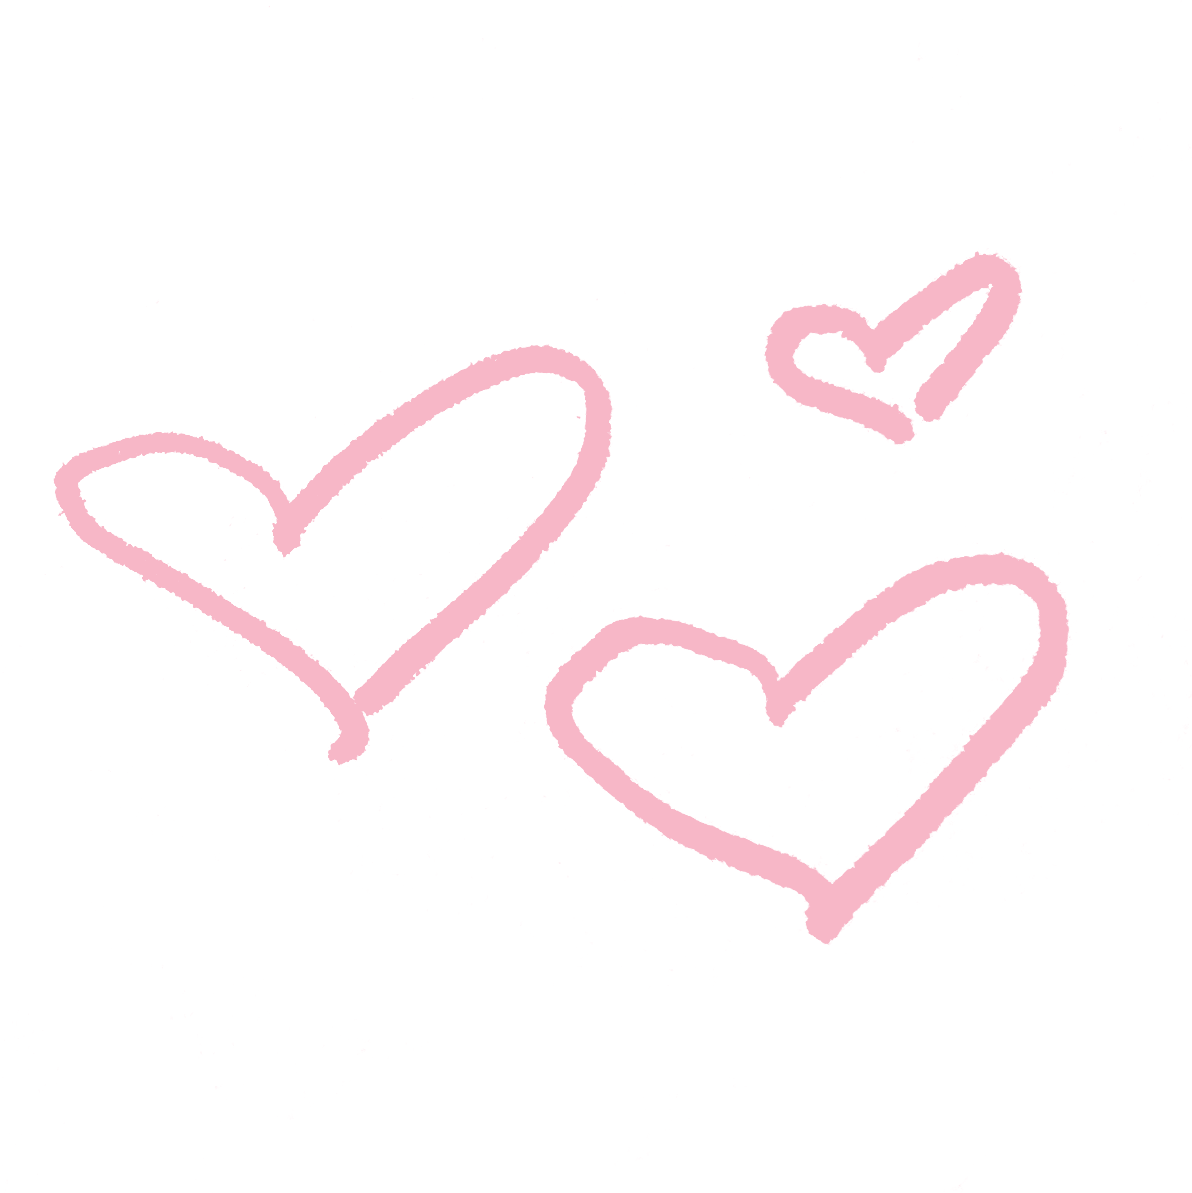
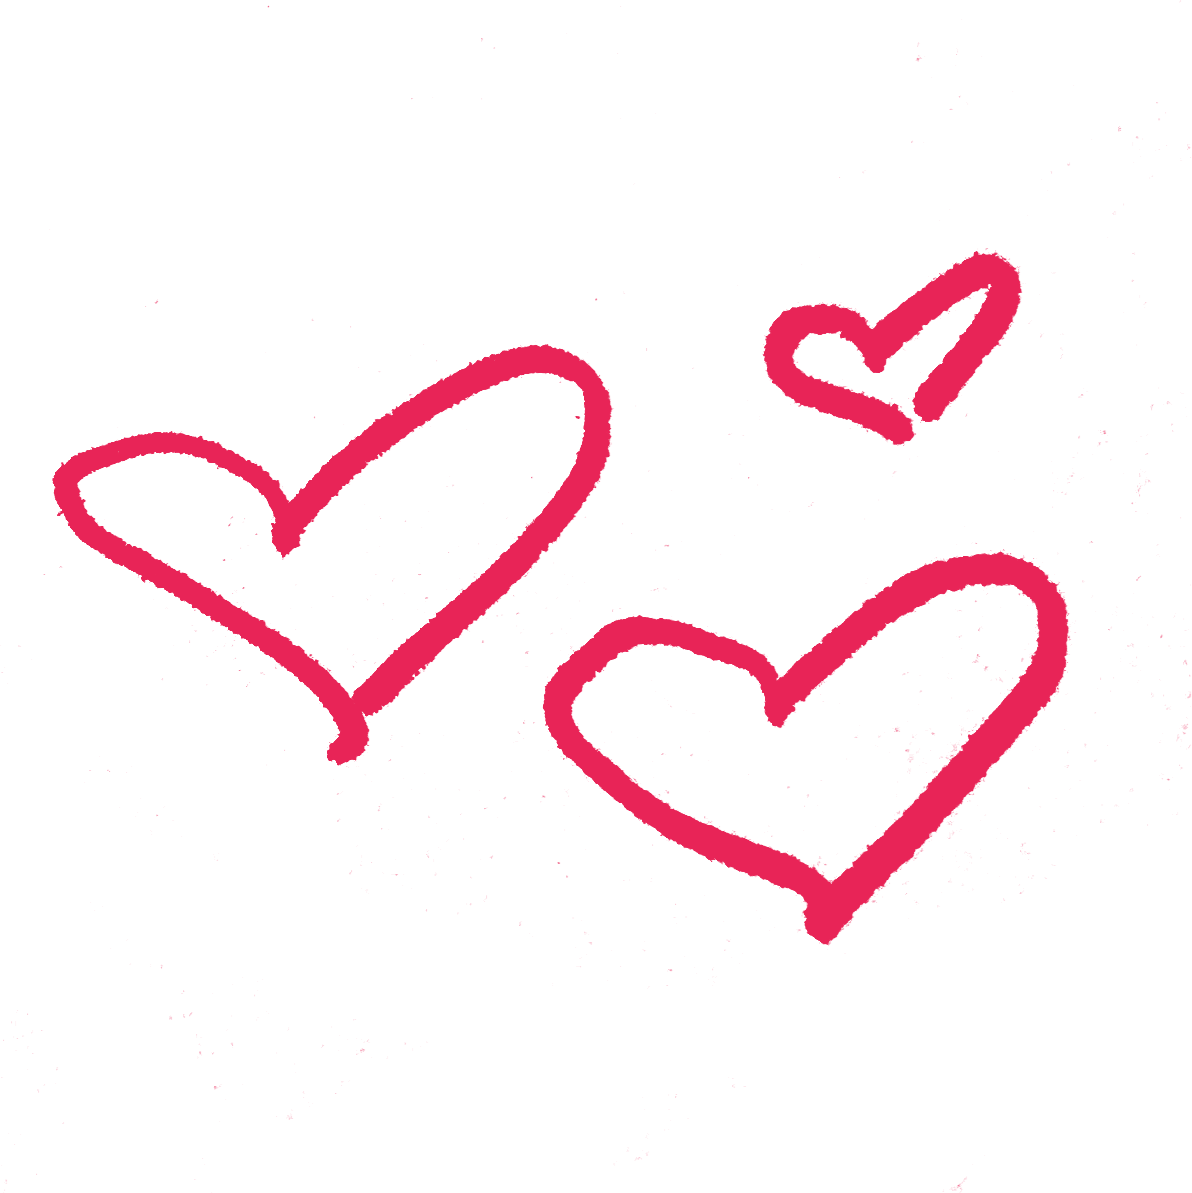
grid-template-areas for timeline, fixes

Changed region(s): [[0.031, 0.2791, 0.5277, 0.6513], [0.4346, 0.4652, 0.9002, 0.8064], [0.6208, 0.1861, 0.8691, 0.3722]]

diff --git a/styles/theme.css b/styles/theme.css
@@ -674,6 +674,11 @@ h1 {
 }
 .block.timeline .row {
     align-items: center;
+    grid-template-areas: "a a a a" ". . . ." "b b b b";
+
+    @media ( min-width: 48rem ) {
+        grid-template-areas: "a a a a a a . b b b b b";
+    }
 }
 .block.timeline .row + .row {
     margin-top: var(--spacing-800);
@@ -681,8 +686,16 @@ h1 {
         margin-top: var(--spacing-800);
     }
 }
+.block.timeline .row[data-direction="reverse"] {
+    align-items: center;
+    grid-template-areas: "a a a a" ". . . ." "b b b b";
+
+    @media ( min-width: 48rem ) {
+        grid-template-areas: "b b b b b . a a a a a a";
+    }
+}
 .block.timeline .image-feature {
-    grid-row: 1;
+    grid-area: a;
     
     position: relative;
     aspect-ratio: 1/1;
@@ -691,7 +704,6 @@ h1 {
 
     @media ( min-width: 48rem ) {
         aspect-ratio: 4/5;
-        grid-row: auto;
     }
 }
 .block.timeline .image-feature:has(.details):before {
@@ -722,25 +734,7 @@ h1 {
     padding: 0;
 }
 .block.timeline .prose {
-    grid-row: 3;
-
-    @media ( min-width: 48rem ) {
-        grid-row: auto;
-    }
-}
-.block.timeline .row[data-direction="reverse"] {
-    align-items: center;
-
-    @media ( min-width: 48rem ) {
-        & .image-feature {
-            grid-row: 1;
-            grid-column-start: 7;
-        }
-        & .prose {
-            grid-row: 1;
-            grid-column-start: 1;
-        }
-    } 
+    grid-area: b;
 }
 /* 
  *

diff --git a/party.html b/party.html
@@ -60,7 +60,6 @@
               </div>
               <img src="./assets/heritage-barn/hb_farmhouse.jpg" alt="The Farmhouse on the Heritage Barn property.">
             </div>
-            <div class="span-all md-span-1"></div>
             <div class="span-all md-span-5 prose">
               <h3>The bridesmaids will be staying in <i>The Farmhouse.</i></h3>
               <p>The ladies will enjoy this beautifully updated 1800s farmhouse. Includes a large backyard and an outdoor fire pit, perfect for late-night hangs and drinks under the August moonlight.</p>
@@ -77,7 +76,6 @@
               </div>
               <img src="./assets/heritage-barn/hb_hop-house-vertical.jpg" alt="The Hop House on the Heritage Barn property.">
             </div>
-            <div class="span-all md-span-1"></div>
             <div class="span-all md-span-5 prose">
               <h3>The groomsmen will be staying in <i>The Hop House.</i></h3>
               <p>The fellas are crashing at this cozy home that overlooks Heritage Barn’s hop fields. It’s the perfect HQ for our weekend: Joey calls dibs on the “Civil War Room,” JSYK.</p>

diff --git a/components.html b/components.html
@@ -159,7 +159,6 @@
               </div>
               <img src="./assets/placeholder-landscape-4-3.jpg" alt="Placeholder image.">
             </div>
-            <div class="span-all md-span-1"></div>
             <div class="span-all md-span-5 prose center">
               <p class="type-label">2016</p>
               <h3>Maxime placeat facere possimus</h3>
@@ -174,7 +173,6 @@
               </div>
               <img src="./assets/placeholder-landscape-4-3.jpg" alt="Placeholder image.">
             </div>
-            <div class="span-all md-span-1"></div>
             <div class="span-all md-span-5 prose center">
               <p class="type-label">2017</p>
               <h3>Itaque earum rerum hic</h3>

diff --git a/phase-two.html b/phase-two.html
@@ -108,7 +108,6 @@
             <div class="image-feature span-all md-span-6">
               <img src="./assets/placeholder-landscape-4-3.jpg" alt="Placeholder image.">
             </div>
-            <div class="span-all md-span-1"></div>
             <div class="span-all md-span-5 prose">
             <h3>Our engagement photos are here, <i>and we love them.</i></h3>
             <p>Partnering with our dear friend, Shane Johnson, we explored Cazenovia’s Lorenzo State Historic Site and the surrounding grounds in beautiful, autumnal October, and he snapped some film. We’re so pleased with his captures, and are happy to share them here.</p>
